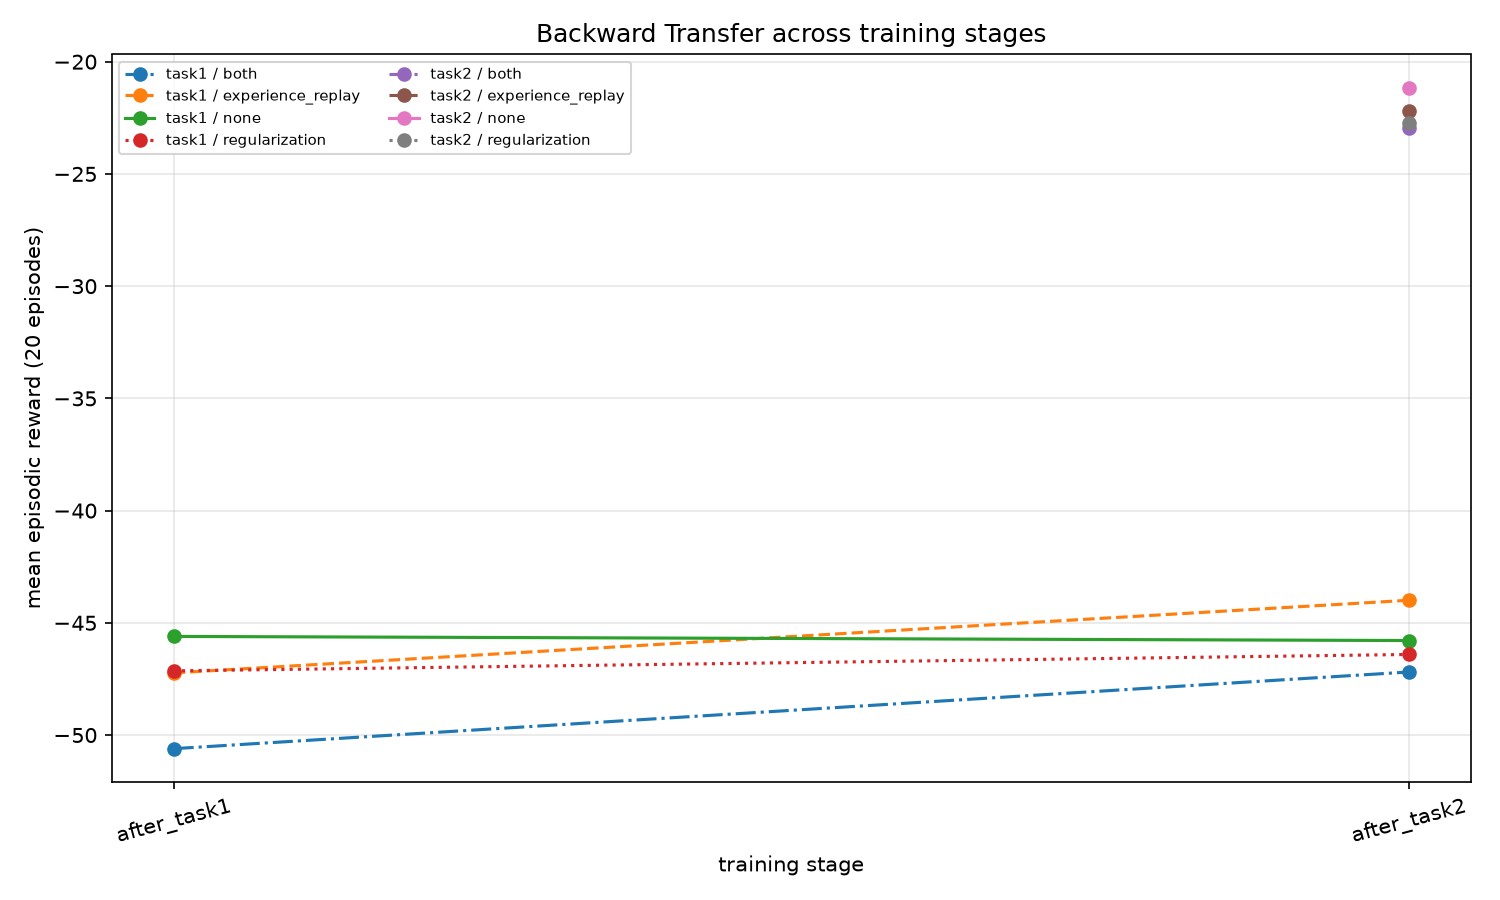
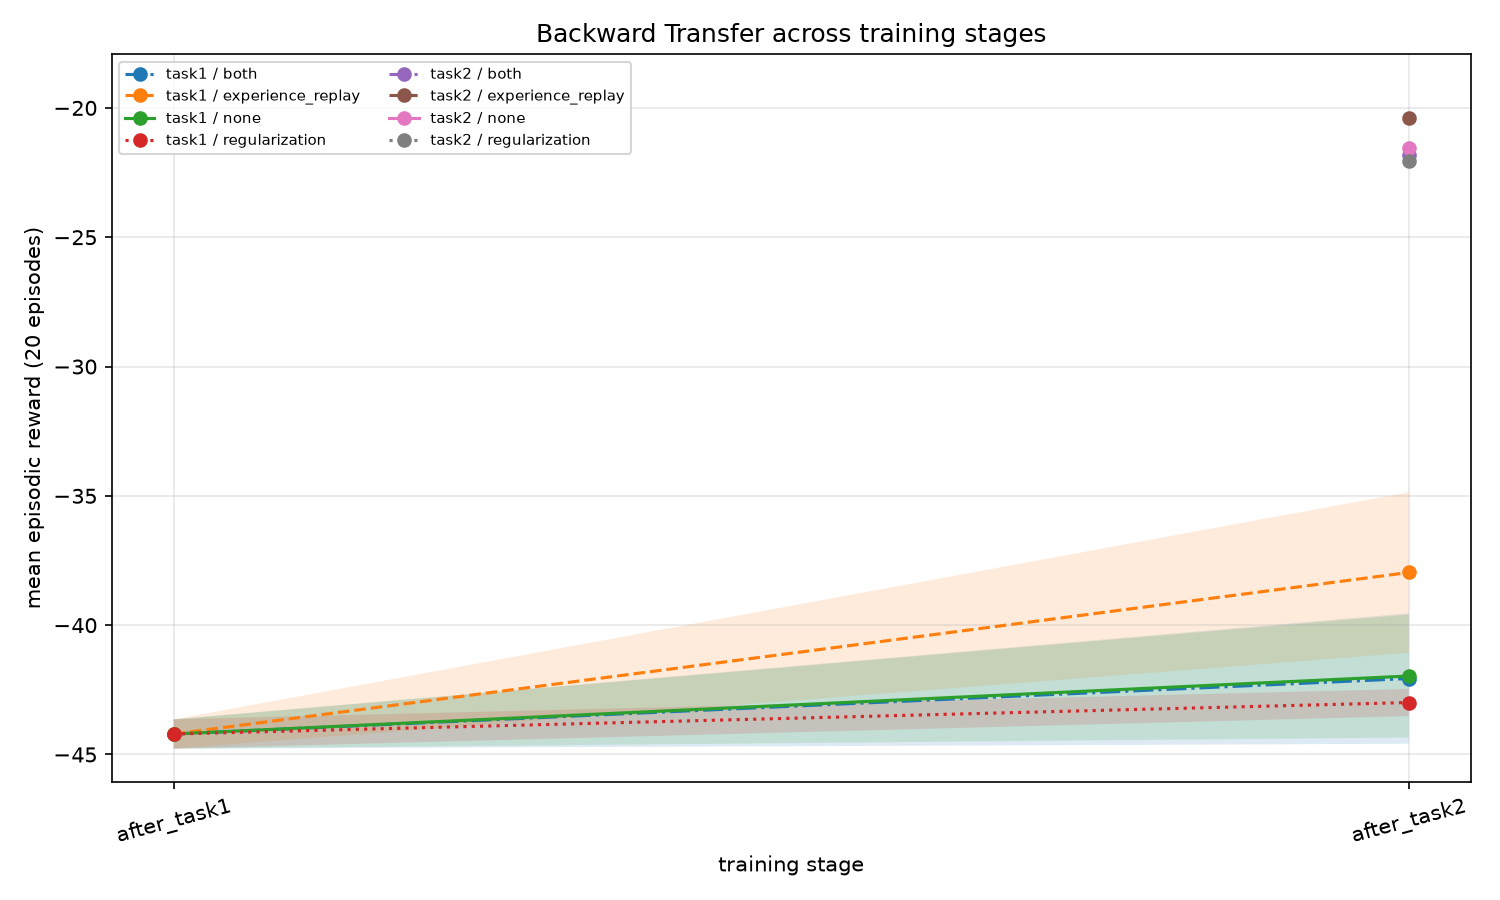
phase-8: README, 3-seed sweep results, LLM validation script, plain-language project explainer
- Add README.md (install/run instructions, required by Phase 8 DoD)
- Bump config.yaml seeds to [0,1,2] per PRD success criteria (mean +/- std over >=3 seeds)
- Add llm_validation.py: supplementary FR9 LLM forgetting experiment, reuses agent.py's eval shape
- Re-run full pipeline (3 seeds x 4 methods x 2 tasks); regularization has lowest forgetting (-1.22 +/- 0.22)
- Add PROJECT.md: plain-language explanation of the project for non-technical readers

diff --git a/llm_validation.py b/llm_validation.py
@@ -1,0 +1,119 @@
+"""Supplementary experiment: validate the forgetting pattern on a real LLM.
+
+Separate from the main pipeline (PRD FR9). Trains a small pretrained language
+model (distilgpt2) via TRL's PPOTrainer on one task, then measures how much
+its performance on an earlier task degrades — the same Backward Transfer
+metric used by ``agent.py``/``memory.py``, redefined here for token-sequence
+reward instead of episodic RL reward since there is no shared environment
+between the RL and LLM settings.
+
+Requires ``transformers`` and ``trl``, intentionally not part of the main
+Phase-1 environment. Intended to run on a GPU (e.g. Colab):
+
+    uv run --with transformers --with trl python llm_validation.py
+
+Task 1: reward completions for containing "positive"-associated words.
+Task 2: reward completions for containing digits.
+Both tasks share the same prompt set and reward-scoring shape as
+``agent.py.evaluate`` (mean score over N eval prompts), so results are
+directly comparable in form to the main pipeline's CSV rows.
+"""
+
+from __future__ import annotations
+
+from dataclasses import dataclass
+
+MODEL_NAME = "distilgpt2"
+EVAL_PROMPTS = [
+    "The weather today is",
+    "My favorite thing about this project is",
+    "In the future, technology will",
+    "The most important lesson I learned was",
+]
+POSITIVE_WORDS = ("good", "great", "happy", "love", "best", "wonderful", "amazing")
+
+
+@dataclass
+class LLMTaskResult:
+    stage: str
+    task: str
+    score: float
+    forgetting: float | None = None
+
+
+def score_positive_words(text: str) -> float:
+    """Task 1 reward: fraction of positive-sentiment words in the completion."""
+    words = text.lower().split()
+    if not words:
+        return 0.0
+    return sum(w.strip(".,!?") in POSITIVE_WORDS for w in words) / len(words)
+
+
+def score_digits(text: str) -> float:
+    """Task 2 reward: fraction of characters that are digits."""
+    if not text:
+        return 0.0
+    return sum(c.isdigit() for c in text) / len(text)
+
+
+def evaluate_llm(model, tokenizer, score_fn, prompts=EVAL_PROMPTS) -> float:
+    """Mirror of ``agent.evaluate``: mean reward over a fixed prompt set."""
+    import torch
+
+    scores = []
+    for prompt in prompts:
+        inputs = tokenizer(prompt, return_tensors="pt")
+        with torch.no_grad():
+            out = model.generate(
+                **inputs, max_new_tokens=20, do_sample=True, pad_token_id=tokenizer.eos_token_id
+            )
+        completion = tokenizer.decode(out[0][inputs["input_ids"].shape[1]:], skip_special_tokens=True)
+        scores.append(score_fn(completion))
+    return sum(scores) / len(scores)
+
+
+def train_ppo_round(trainer, tokenizer, prompts, score_fn, steps: int = 20):
+    """Run a small number of PPO update steps rewarding ``score_fn``."""
+    import torch
+
+    for _ in range(steps):
+        prompt = prompts[_ % len(prompts)]
+        query_tensor = tokenizer(prompt, return_tensors="pt").input_ids[0]
+        response_tensor = trainer.generate(
+            query_tensor, max_new_tokens=20, do_sample=True, pad_token_id=tokenizer.eos_token_id
+        )
+        response_text = tokenizer.decode(response_tensor[len(query_tensor):], skip_special_tokens=True)
+        reward = torch.tensor(score_fn(response_text))
+        trainer.step([query_tensor], [response_tensor[len(query_tensor):]], [reward])
+
+
+def main() -> int:
+    from transformers import AutoTokenizer
+    from trl import AutoModelForCausalLMWithValueHead, PPOConfig, PPOTrainer
+
+    tokenizer = AutoTokenizer.from_pretrained(MODEL_NAME)
+    tokenizer.pad_token = tokenizer.eos_token
+    model = AutoModelForCausalLMWithValueHead.from_pretrained(MODEL_NAME)
+
+    config = PPOConfig(batch_size=1, mini_batch_size=1)
+    trainer = PPOTrainer(config, model, ref_model=None, tokenizer=tokenizer)
+
+    print("Training on Task 1 (positive-word reward)...")
+    train_ppo_round(trainer, tokenizer, EVAL_PROMPTS, score_positive_words)
+    score_before = evaluate_llm(model, tokenizer, score_positive_words)
+    print(f"score_before (Task 1): {score_before:.4f}")
+
+    print("Training on Task 2 (digit-density reward)...")
+    train_ppo_round(trainer, tokenizer, EVAL_PROMPTS, score_digits)
+    score_after = evaluate_llm(model, tokenizer, score_positive_words)
+    score_task2 = evaluate_llm(model, tokenizer, score_digits)
+
+    forgetting = score_before - score_after
+    print(f"score_after  (Task 1, post-task2): {score_after:.4f}")
+    print(f"score_task2  (Task 2, post-task2): {score_task2:.4f}")
+    print(f"forgetting (score_before - score_after) = {forgetting:+.4f}")
+    return 0
+
+
+if __name__ == "__main__":
+    raise SystemExit(main())

diff --git a/PROJECT.md b/PROJECT.md
@@ -1,0 +1,68 @@
+# AI Team Trainer — Explained Simply
+
+## What problem are we solving?
+
+Imagine you teach a robot to play soccer. It gets good at it.
+Then you teach the same robot to play basketball.
+Problem: after learning basketball, the robot forgets how to play soccer.
+
+This is called **"catastrophic forgetting"** — AI agents lose old skills
+when they learn new ones. It gets worse with a *team* of agents, because
+if one forgets, the whole team's teamwork breaks.
+
+## What does this project do?
+
+It's a tool that:
+1. Trains a small team of AI agents on **Task 1** (a game).
+2. Then trains the same team on **Task 2** (a similar but different game).
+3. Tests them on Task 1 again to see **how much they forgot**.
+4. Tries two fixes and checks if the fixes actually help:
+   - **Replay** — every so often during Task 2 training, quickly remind
+     the agents of Task 1 (like flashcards / revision).
+   - **Freezing** — lock the early "core skills" part of the brain so
+     it can't be overwritten, only the later "fine details" part changes.
+5. Reports the results as a table and a graph.
+
+## The "game" they play
+
+A cooperative game called `simple_spread`: a few agents must each cover
+a different landmark/spot on a map without bumping into each other.
+Task 1 and Task 2 are two versions of this game (different agent count /
+landmark spacing), so it's genuinely a different skill, not just a repeat.
+
+## The 4 things we compare
+
+| Method | What it does |
+|---|---|
+| `none` | Just train normally, no fix — this is the baseline |
+| `experience_replay` | Sprinkle in Task 1 practice while learning Task 2 |
+| `regularization` | Freeze the "core" of the brain after Task 1 |
+| `both` | Do both fixes together |
+
+## How we measure "forgetting"
+
+```
+forgetting = (score on Task 1 right after learning it)
+           − (score on Task 1 after also learning Task 2)
+```
+
+Bigger number = forgot more. Negative number = actually got a little
+better (rare, but possible, and we report it honestly either way).
+
+## What comes out at the end
+
+- `outputs/scores.csv` — a spreadsheet of every score, every method,
+  every seed (we repeat 3 times with different random luck to be fair).
+- `outputs/forgetting_report.png` — a chart: score over time, one line
+  per method, so you can see visually which fix works best.
+
+## Bonus experiment
+
+We also try the same idea on a real (tiny) language model — does it
+forget old behavior after learning something new? Same before/after/
+forgetting idea, just on text instead of a game.
+
+## One-line summary
+
+**"Teach it something new, check how much it forgot from before,
+and see if two simple tricks (revision and locking) reduce the damage."**

diff --git a/README.md b/README.md
@@ -1,0 +1,68 @@
+# AI Team Trainer
+
+Config-driven tool that trains a team of independent-learner RL agents
+sequentially on two cooperative multi-agent tasks, measures catastrophic
+forgetting (Backward Transfer), and compares two mitigation methods
+(experience replay and regularization) against a no-mitigation baseline.
+
+Runs entirely on CPU. See `docs/PRD.md` for the full requirements and
+`docs/Phases.md` for how the project was built phase by phase.
+
+## Install
+
+Requires Python 3.11 and [uv](https://docs.astral.sh/uv/).
+
+```bash
+uv sync
+```
+
+This installs the CPU build of PyTorch plus `gymnasium`, `pettingzoo[mpe]`,
+`stable-baselines3`, `matplotlib`, `pandas`, and `pyyaml`.
+
+## Run
+
+```bash
+uv run python main.py --config config.yaml
+```
+
+This is the only command needed. It reads `config.yaml`, trains each agent
+sequentially on Task 1 then Task 2 under all four mitigation modes
+(`none`, `experience_replay`, `regularization`, `both`) across every
+configured seed, measures forgetting, and writes:
+
+- `outputs/scores.csv` — one row per (stage, task, method, seed)
+- `outputs/forgetting_report.png` — score vs. training stage, mean ± std
+  across seeds, one line per task/method
+
+Edit `config.yaml` to change agent count, tasks, timesteps, mitigation
+method, episodes, or seeds — no code changes are needed between runs.
+
+## Project layout
+
+| File | Purpose |
+|---|---|
+| `config.py` / `config.yaml` | Config schema + loader (Phase 7) |
+| `env.py` | Cooperative task environments (PettingZoo MPE `simple_spread`) |
+| `agent.py` | Independent-learner PPO wrapper + evaluation |
+| `memory.py` | Experience replay (rehearsal bursts) + regularization (layer freezing) |
+| `report.py` | CSV logging + forgetting plot |
+| `main.py` | Single-command pipeline entry point (Phase 8) |
+| `docs/` | PRD, ADRs, phase plan, architecture notes |
+| `paper/` | Research paper (Word) + diagrams |
+| `website/` | Research explainer site (Next.js) |
+
+## Supplementary: LLM validation
+
+`llm_validation.py` (separate from the main pipeline) validates the same
+forgetting pattern on a small pretrained language model
+(`distilgpt2` via TRL `PPOTrainer`). It requires `transformers`/`trl`
+(not installed by `uv sync`) and is intended to run on a GPU (e.g. Colab):
+
+```bash
+uv run --with transformers --with trl python llm_validation.py
+```
+
+## Website
+
+The `website/` directory is a standalone Next.js app; see
+`website/README.md` for its own setup instructions.
